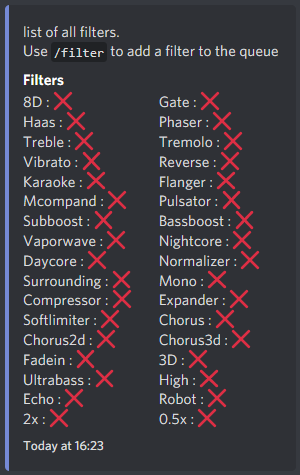
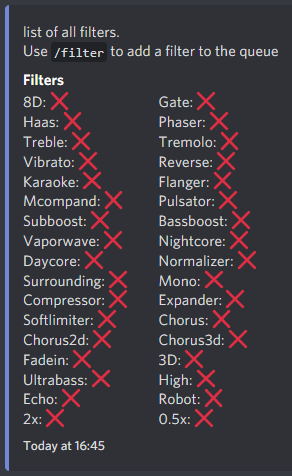
AAAAAAAAAAAAAAAAAAAAAAAAAAAAAAAAAAAAAAAAAAAAAAAAAAAA

diff --git a/index.html b/index.html
@@ -92,59 +92,65 @@
 		<section id="cmds">
 			<h1 class="website_title" style="font-family: DcTitle">Commands</h1>
 			<hr class="hrlol" />
-
-			<ul>
-				<h4 style="font-family: DcTitle">Fun Commands</h4>
-				<li>/say [text] - The bot says your input.</li>
-				<li>/tell [text] - Sends your message with an embed</li>
-				<li>/moyaiu [question] - Ask Moyai</li>
-				<li>/gay [someone] - Shows how gay someone is</li>
-				<li>/penis [someone] - Measures pp</li>
-				<li>/hack [somone] - Starts a joke hack</li>
-				<li>/google [something] - Google something on Google</li>
-				<li>/youtube [something] - Searches something on YouTube</li>
-				<li>/randommoyai - Sends a random moyai image 🗿</li>
-				<li>/eject [someone] - when imposter is sussy 😳</li>
-				<li>/slots - gamble</li>
-			</ul>
-
-			<ul>
-				<h4 style="font-family: DcTitle">Moderation Commands</h4>
-				<li>/clear [1-100] - clear the chat</li>
-				<li>/slowmode [seconds] - Sets slowmode of the current channel</li>
-			</ul>
-
-			<ul>
-				<h4 style="font-family: DcTitle">Music Commands</h4>
-				<li>/play [title/URL] - Play a song</li>
-				<li>/pause - Pause the current song</li>
-				<li>/resume - Continue playing</li>
-				<li>/filters - Filter list</li>
-				<li>/filter [filter] - Apply a filter</li>
-				<li>/np - Shows the current song playing</li>
-				<li>/search [something]- Search a song on YouTube</li>
-				<li>/loop [queue] - Loop a song/queue</li>
-				<li>/shuffle - Shuffle the queue</li>
-				<li>/skip - Skip a song</li>
-				<li>/queue - Shows the queue</li>
-				<li>/clearqueue - Clears the queue</li>
-				<li>/remove [queue number] - Removes a song from the queue</li>
-				<li>/back - Play the previous song</li>
-				<li>/autoplay - toggle youtube autoplay</li>
-			</ul>
-
-			<ul>
-				<h4 style="font-family: DcTitle">Misc Commands</h4>
-				<li>/serverinfo - Shows Serverinfo</li>
-				<li>/userinfo - Shows Userinfo</li>
-				<li>/suggestion [something] - Suggest something</li>
-			</ul>
+			<img
+				src="./img/help.png"
+				alt="Help
+Get more details about a command with /help [command name]
+Music
+autoplay, back, clear-queue, filter, filters, loop, nowplaying, pause, play, queue, remove, resume, search, shuffle, skip, stop, volume
+Fun
+8ball, avatar, duckduckgo, eject, gamer, gay, google, penis, randommoyai, say, slots, tell, youtube
+Misc
+invite, ping, vote"
+				style="pointer-events: none"
+			/>
 		</section>
 		<section id="images">
-			<h1 class="website_title" style="font-family: DcTitle">Images</h1>
+			<h1 class="website_title" style="font-family: DcTitle">Filters</h1>
 			<hr class="hrlol" />
 			<h1></h1>
-			<img src="img/filters.png" alt="Filters" style="pointer-events: none" />
+			<img
+				src="img/filters.png"
+				alt="list of all filters.
+Use /filter to add a filter to the queue
+Filters
+8D: :x:
+Haas: :x:
+Treble: :x:
+Vibrato: :x:
+Karaoke: :x:
+Mcompand: :x:
+Subboost: :x:
+Vaporwave: :x:
+Daycore: :x:
+Surrounding: :x:
+Compressor: :x:
+Softlimiter: :x:
+Chorus2d: :x:
+Fadein: :x:
+Ultrabass: :x:
+Echo: :x:
+2x: :x:
+Gate: :x:
+Phaser: :x:
+Tremolo: :x:
+Reverse: :x:
+Flanger: :x:
+Pulsator: :x:
+Bassboost: :x:
+Nightcore: :x:
+Normalizer: :x:
+Mono: :x:
+Expander: :x:
+Chorus: :x:
+Chorus3d: :x:
+3D: :x:
+High: :x:
+Robot: :x:
+0.5x: :x:
+Today at 16:45"
+				style="pointer-events: none"
+			/>
 			<h1></h1>
 		</section>
 

diff --git a/news.html b/news.html
@@ -61,12 +61,7 @@
 
 		<section id="about">
 			<hr id="invite_hr" />
-			<h3 id="moyaiu_subtitle" style="font-family: DcTitle; color: #7289da">❗Version 1.7 Release!</h3>
-			<img
-				src="https://cdn.discordapp.com/attachments/825718324997652520/851899597731266590/unknown.png"
-				alt="changelog"
-				style="pointer-events: none"
-			/>
+			<h3 id="moyaiu_subtitle" style="font-family: DcTitle; color: #7289da">No News</h3>
 		</section>
 
 		<hr id="invite_hr" />
